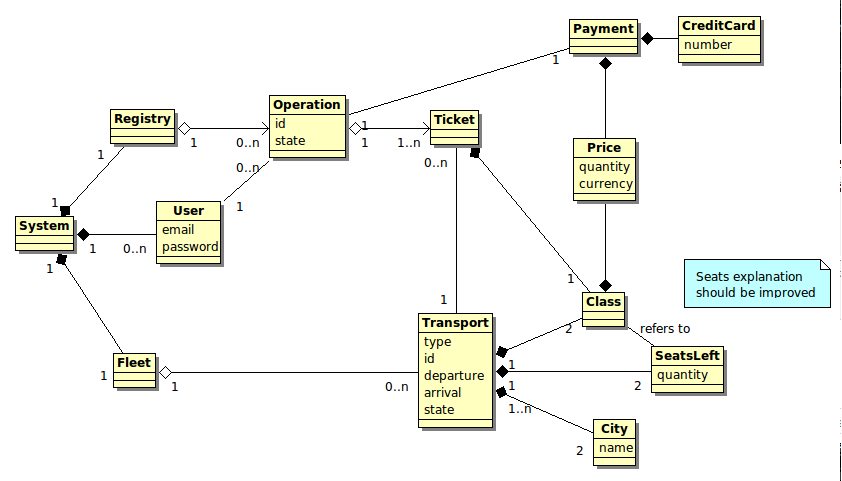
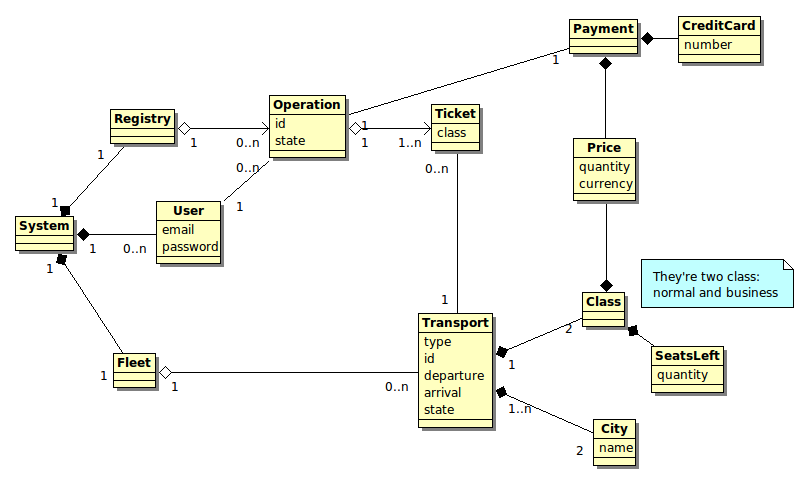
Improved domain diagram
Now a quick fix have been done to avoid the lack of coherence in with
the class and class seats.

diff --git a/GOALS.md b/GOALS.md
@@ -2,9 +2,9 @@
 ## Iteración 1
 <pre>
 [P] Escribir especificación de requisitos
-[D] Escribir casos de uso para esos requisitos
-[D] Diseñar un diagrama de dominio
-[ ] Diseñar la interfaz gráfica de usuario
+[P] Escribir casos de uso para esos requisitos
+[P] Diseñar un diagrama de dominio
+[D] Diseñar la interfaz gráfica de usuario
 </pre>
 Leyenda:
 <pre>
